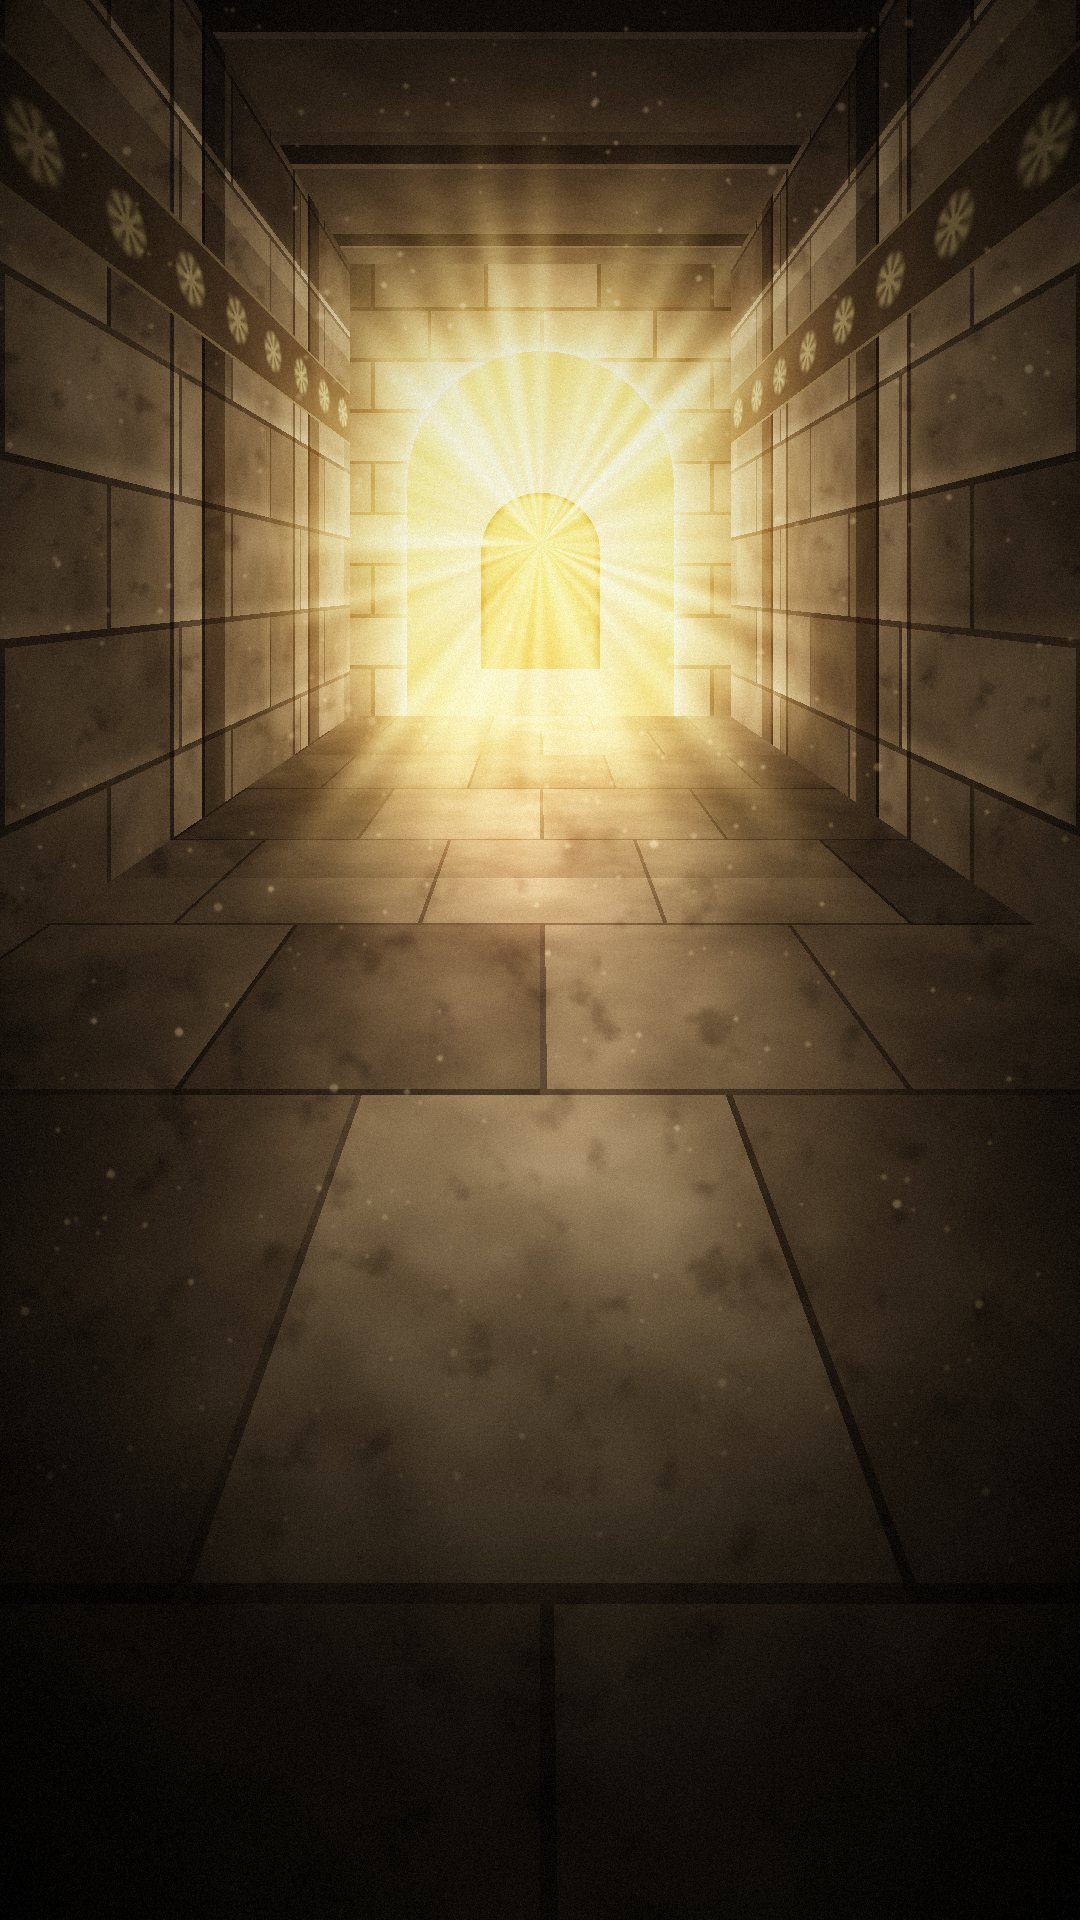
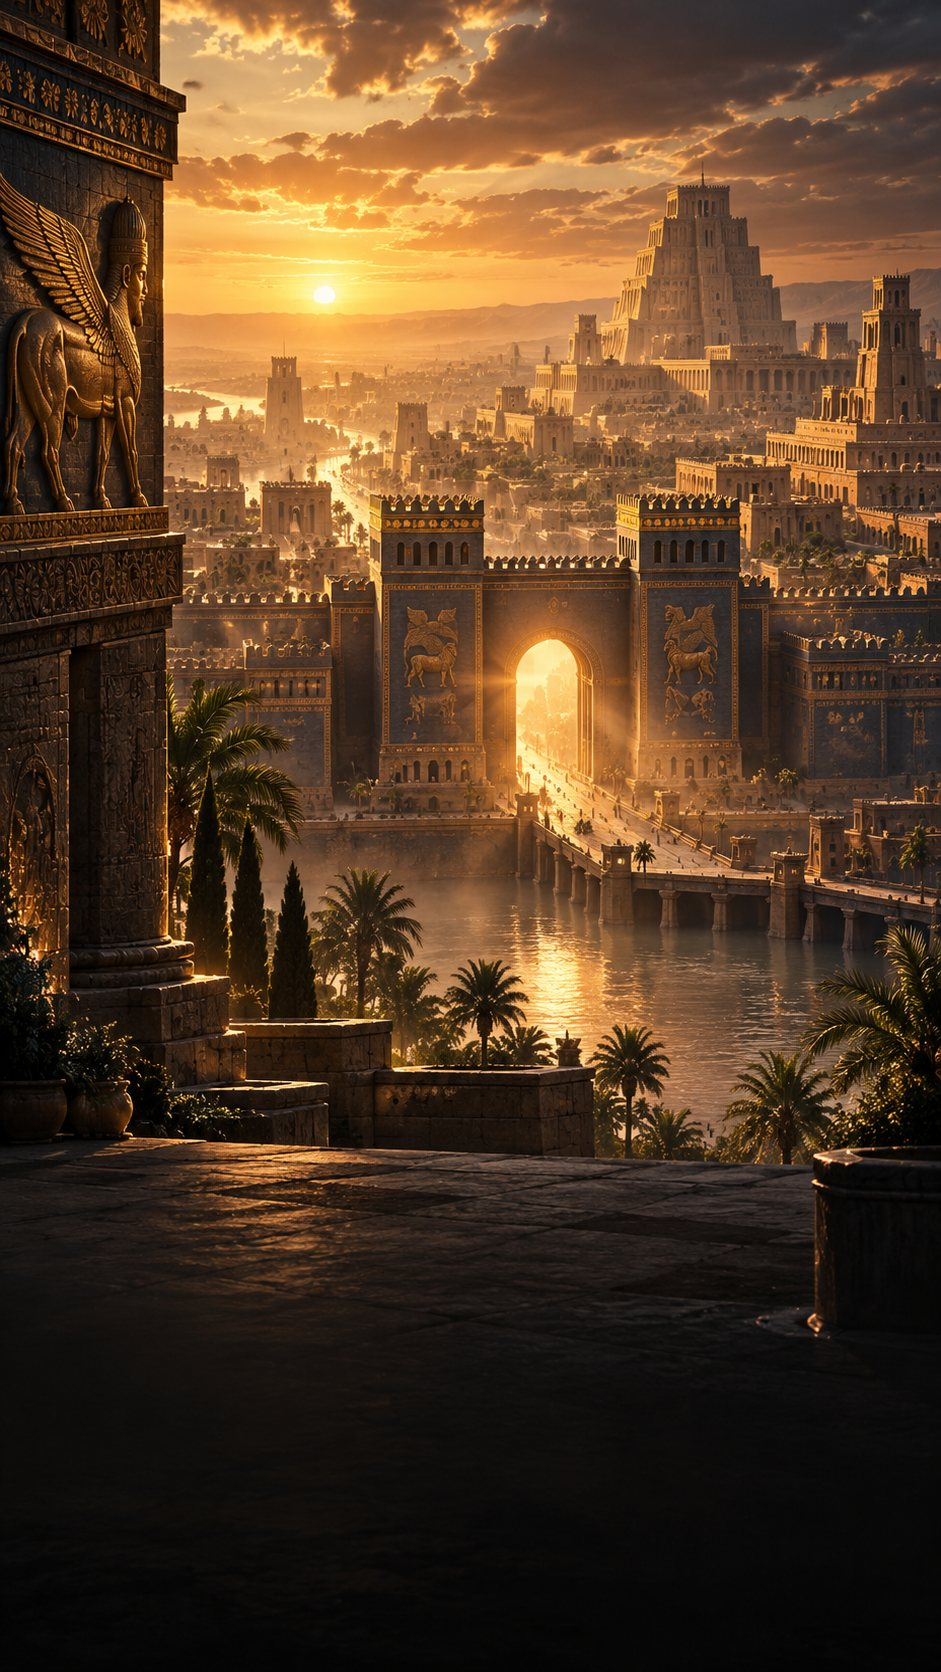
welcome screen improvemnte

diff --git a/mobile-app/src/config/images.ts b/mobile-app/src/config/images.ts
@@ -2,9 +2,7 @@
  * Every bundled picture the app shows, in ONE place (the Daniel 2 scene pictures are keyed separately in
  * src/features/daniel-2/assets.ts, and they too resolve to files registered here).
  *
- * The only artwork today is a generated PLACEHOLDER: a stylised columned hall. It is not a photograph, not a depiction of a
- * real place and not a 3D model. To use approved artwork, add the file under assets/images/ and change the `source` line:
- * nothing else needs editing. Keep pictures to roughly 1200 px on the long side so the bundle stays small.
+ * Artwork is bundled locally for offline availability. The hall remains a placeholder; the welcome cover is generated artwork.
  */
 export type AppImage = {
   source: number;
@@ -20,15 +18,11 @@ export const appImages = {
     isPlaceholder: true,
   },
   /**
-   * The Welcome screen's cover: a portrait (1080 x 1920) illustration of an ancient stone gateway hall lit by warm golden light, with a dark
-   * lower half so the text and buttons stay readable. It is drawn by code, not photographed or painted, and is an atmospheric impression, not a
-   * depiction of a real place (scripts/generate-welcome-cover.py regenerates it; `python scripts/generate-welcome-cover.py out.jpg`).
-   * To use approved artwork instead, save it as assets/images/welcome/welcome-cover.jpg (about 1200 x 2133, under roughly 400 KB, bright
-   * subject in the upper third) and nothing else needs editing.
+   * Generated portrait illustration of a Babylonian-inspired city at golden hour; an atmospheric impression, not a depiction of a real place.
    */
   welcome: {
     source: require('@/assets/images/welcome/welcome-cover.jpg') as number,
-    alt: 'Illustration of an ancient stone gateway hall lit by warm golden light',
+    alt: 'Illustration of an ancient Babylonian-inspired city and gateway at golden hour',
     isPlaceholder: false,
   },
 } as const satisfies Record<string, AppImage>;

diff --git a/mobile-app/src/screens/welcome-screen.tsx b/mobile-app/src/screens/welcome-screen.tsx
@@ -39,7 +39,7 @@ export function WelcomeScreen() {
   const router = useRouter();
   const insets = useSafeAreaInsets();
   const { height: windowHeight } = useWindowDimensions();
-  const { colors, layout, spacing, isDark } = useTheme();
+  const { colors, layout, spacing } = useTheme();
   const { level, ready } = useLearningLevel();
   const [step, setStep] = useState<'start' | 'level'>('start');
   const [chosen, setChosen] = useState<LearningLevel | null>(null);
@@ -55,13 +55,13 @@ export function WelcomeScreen() {
   return (
     <View style={[styles.fill, { backgroundColor: colors.background }]}>
       {/* the cover picture, decorative; its own gradients keep the status bar and the very bottom legible */}
-      <HeroBackdrop source={appImages.welcome.source} reach={1} dim={isDark ? 0 : 0.15} />
+      <HeroBackdrop source={appImages.welcome.source} reach={1} />
       {/* the top of the picture is always dark, so the status bar icons stay light in both themes */}
       <HeroStatusBar />
 
       <ScrollView style={styles.fill} contentContainerStyle={styles.grow} showsVerticalScrollIndicator={false} keyboardShouldPersistTaps="handled">
         <View style={[styles.grow, { paddingTop: insets.top, paddingBottom: insets.bottom, paddingLeft: insets.left, paddingRight: insets.right }]}>
-          <LinearGradient colors={scrim} locations={[0, 0.26, 0.55, 0.92]} style={StyleSheet.absoluteFill} pointerEvents="none" />
+          <LinearGradient colors={scrim} locations={[0, 0.32, 0.6, 0.92]} style={StyleSheet.absoluteFill} pointerEvents="none" />
 
           <View style={[styles.column, { maxWidth: layout.maxContentWidth, paddingHorizontal: layout.screenPadding }]}>
             <View style={styles.topBar}>
